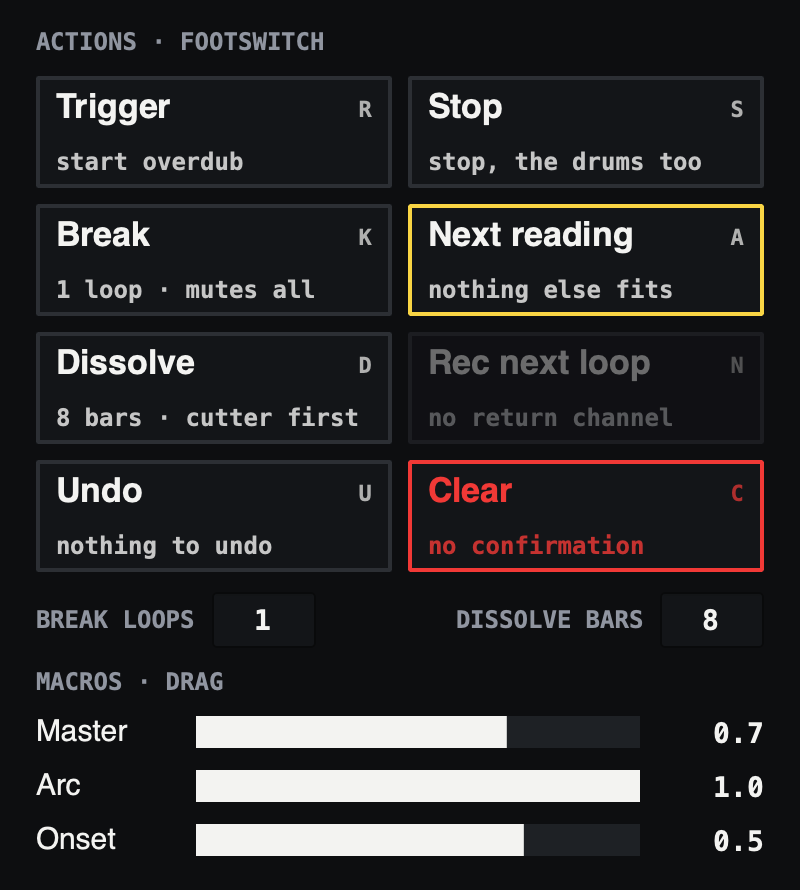
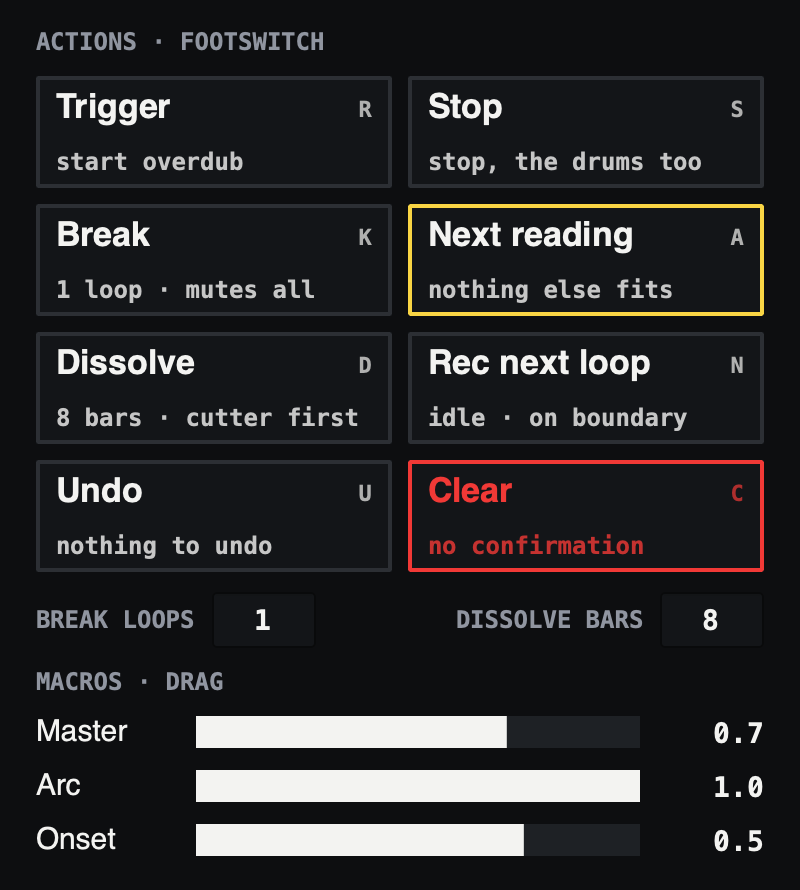
Megalooper SA speaks for itself: no Live in what it says, and Saw is a saw
The tooltips, labels and log lines an SA rig shows no longer talk about
Ableton Live, the duo's set or their TSMega map: the onset notes play the
onset kit, the drums' defaults are where they start, the recorder's stop line
is for any DAW ("In a DAW: 165.04 BPM, 7/8. Drop the files at bar 1."), the
Record set tip says what it writes, the boot no longer claims loop chaining
is off on saSystem. Live rigs keep their own words where a text is chosen by
rig. The variations' first entry is "starting values" (was "as saved").
"Live arrangement record" is a MIDI target on Live rigs only.

The Envelope Filter's LFO Saw was the same wave as Ramp Down; it is now a
falling saw with an exponential curve. nrt-chains passes on it, and the
filter's graph pin in test-megasa-chains moves with it.

render-screens.scd gives its Looper SA's return channel, so Perform's Rec next
loop tile is rendered as it is on the rig.

Changed region(s): [[0.5312, 0.4551, 0.875, 0.4854], [0.5312, 0.3944, 0.8125, 0.4247], [0.9062, 0.3944, 0.9375, 0.4247]]

diff --git a/tools/export-live-set.py b/tools/export-live-set.py
@@ -493,7 +493,7 @@ SA_RACKS = [
 
 # Variation names the set gives that megalooper shows otherwise: the window
 # names no instrument.
-VARIATION_NAMES = {"guitar-playback": "loop-playback"}
+VARIATION_NAMES = {"guitar-playback": "loop-playback", "as saved": "starting values"}
 
 # Live's synced LFO rates, slow to fast, in whole notes.
 SYNC_DIVISIONS = [8, 6, 4, 3, 2, 1.5, 1, 0.75, 0.5, 0.375, 1 / 3, 5 / 16, 0.25, 3 / 16,
@@ -783,11 +783,11 @@ def cmd_variations(root, parents, args):
     path = os.path.join(args.out, "fx-variations.json")
     text = json.dumps({
         "source": os.path.basename(args.set),
-        "notes": "Each effect's rack states as MegaSAFx settings: 'as saved' is the macros "
+        "notes": "Each effect's rack states as MegaSAFx settings: 'starting values' is the macros "
                  "as the set left them; the rest are the rack's own macro variations, each "
                  "with only the settings its macros drive (a recall leaves the rest). "
                  "'fixed' holds the settings no macro drives, at the device's stored values. "
-                 "MegaSAFx's defaults are 'as saved' plus 'fixed'. Macro positions go "
+                 "MegaSAFx's defaults are 'starting values' plus 'fixed'. Macro positions go "
                  "through Live's knob curves (tools/export-live-set.py CURVES).",
         "effects": effects,
     }, indent=1, ensure_ascii=False)

diff --git a/docs/effects.md b/docs/effects.md
@@ -123,7 +123,7 @@ low-pass through band-pass to high-pass as **Morph** goes from 0 to 100 %.
 | **Envelope** | −100 to 100 % | +76 % | How far your picking moves the cutoff; 100 % is four octaves. Negative moves it down instead |
 | **Sense** | 0.5 to 30× | 3× | How hard a pick has to be to reach the top of the envelope. Higher reacts to softer playing |
 | **Release** | 10 ms to 3 s | 250 ms | How fast the envelope lets go after a note |
-| **LFO Wave** | Sine, Triangle, Saw, Square, Ramp Up, Ramp Down, Wander, S&H | Ramp Up | The LFO's shape. Wander glides at random; S&H jumps at random |
+| **LFO Wave** | Sine, Triangle, Saw, Square, Ramp Up, Ramp Down, Wander, S&H | Ramp Up | The LFO's shape. Saw falls fast and settles; Ramp Down falls in a straight line. Wander glides at random; S&H jumps at random |
 | **LFO Amt** | 0 to 100 % | 89 % | How far the LFO moves the cutoff; 100 % is three octaves each way |
 | **LFO Sync** | Free, 1/64 to 2/1 | 1/4 | One LFO cycle per this note value at the loop's tempo, triplets (T) and dotted (D) too. It runs from its own phase, not from the bar line |
 | **LFO Rate** | 0.05 to 20 Hz | 1 Hz | The LFO's speed while Sync is Free |

diff --git a/docs/standalone.md b/docs/standalone.md
@@ -65,8 +65,8 @@ An effect brought back by Undo keeps its settings.
 
 Each effect's menu lists the variations megalooper ships (Dual Delay, Envelope
 Filter, Pitch Loops, Drive and Crusher have some), then yours, marked
-**· yours**. Each shipped list starts with **as saved**: the settings the
-shipped variations move, back at their starting values. A shipped variation
+**· yours**. Each shipped list starts with **starting values**: it puts the settings
+the shipped variations move back where they start. A shipped variation
 sets only some of the settings; one of yours sets them all. Yours are kept in `sa/fx-variations.json` in your megalooper
 folder, apart from the sounds; a shipped variation's name cannot be taken for
 one of yours.
